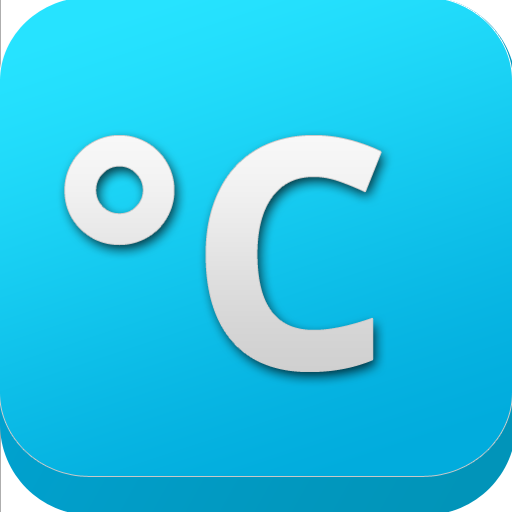
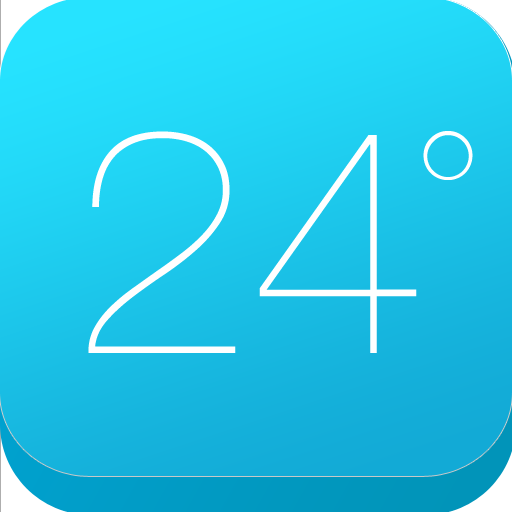
Wasser 1.6.5
Added Twitter Button, made directory option available everywhere for
more flexibility, new app icon matches overall design, valid HTML 5

Changed region(s): [[0.125, 0.25, 0.8125, 0.75], [0.8125, 0.25, 0.9375, 0.375], [0.5625, 0.4062, 0.625, 0.5]]

diff --git a/index.php b/index.php
@@ -25,6 +25,8 @@ $end_time und $cur_time sind die Zeitstempel
 <head>
 <title>Wasser</title>
 
+<meta charset="utf-8">
+
 <!-- iOS Dinge -->
 <meta name="apple-mobile-web-app-capable" content="yes" /> 
 <meta name="viewport" content="width = 480px, inital-scale = 1.0, user-scalable=no"> 
@@ -71,7 +73,7 @@ if($end_time < $cur_time) {
                     <h1 class="today"><?php echo $data['temperature']; ?>&deg;</h1>
                     <h2><?php echo $description; ?></h2>
                     <div id="the_past">
-                    	<div id="past_entry">
+                    	<div class="past_entry">
                     		<div class="past_date">
                     		<?php $one_date = date_create($one_day_data['cur_timestamp']);
 	                    		echo date_format($one_date, 'l')
@@ -82,7 +84,7 @@ if($end_time < $cur_time) {
                     		</div>
                     	</div>
                     	<div style="clear:both;"></div>
-                    	<div id="past_entry">
+                    	<div class="past_entry">
                     		<div class="past_date">
                     		<?php $two_date = date_create($two_day_data['cur_timestamp']);
 	                    		echo date_format($two_date, 'l')
@@ -92,7 +94,7 @@ if($end_time < $cur_time) {
                     		</div>
                     	</div>
                     	<div style="clear:both;"></div>
-                    	<div id="past_entry">
+                    	<div class="past_entry">
                     		<div class="past_date">
                     		<?php $three_date = date_create($three_day_data['cur_timestamp']);
 	                    		echo date_format($three_date, 'l')
@@ -105,9 +107,14 @@ if($end_time < $cur_time) {
                     	
  
                     </div>
-                    <?php echo '<p class="year_ago">Vor einem Jahr um '.$year_ago_data['site_time'].' hatte das Wasser '.$year_ago_data['temperature'].' Grad.</p>'; ?>
+                    <?php echo '<p class="year_ago">Vor einem Jahr hatte das Wasser '.$year_ago_data['temperature'].' Grad.</p>'; ?>
                     <!-- Das exakte  Datum war: <?php echo $year_ago_data['cur_timestamp']; ?> -->
                  <!--   <p class="version"><?php echo $versioning; ?></p> -->
+                 <!-- Twitter Integration -->
+                 <p>
+	                 <a href="https://twitter.com/wassertemp" class="twitter-follow-button" data-show-count="false" data-lang="de" data-show-screen-name="true" data-size="large">Follow @twitterapi</a>
+<script>!function(d,s,id){var js,fjs=d.getElementsByTagName(s)[0];if(!d.getElementById(id)){js=d.createElement(s);js.id=id;js.src="//platform.twitter.com/widgets.js";fjs.parentNode.insertBefore(js,fjs);}}(document,"script","twitter-wjs");</script>
+                 </p>
                 </div>
                 
 </div>

diff --git a/core.php b/core.php
@@ -5,9 +5,11 @@ Build:
 The heart and soul of this app.
 */
 $version = '1.4';
-$build = 'xxxxxx';
+$build = 'afc013';
 
 $versioning = 'Version: '.$version.' ('.$build.')'; 
+
+$directory = 'http://wasser.aaronbauer.org/';
 /*
 Core which fetches the temperature and the time from the website every hour and writes it into a database.
 */
@@ -95,7 +97,7 @@ if($temperatur and $site_date and $timestamp != '') {
 //Debug Modus beendet das Script hier. Es werden keine Daten geschrieben.
 if($_GET['debug'] != '') {
 	echo 'Debug Off <br />';
-	echo '<a href="http://wasser.aaronbauer.org/core.php?debug=yes">Switch Debug On</a><br /><br />';	
+	echo '<a href="'.$directory.'core.php?debug=yes">Switch Debug On</a><br /><br />';	
 	
 } else {
 	echo '<br />Debug Mode';
@@ -147,8 +149,8 @@ if ($temperatur == $data['temperature'] and $timestamp == $data['site_time'] and
 	$tmp_value = $inside->addChild("item"); 
 	$tmp_value->addChild("title", $temperatur.' Grad'); 
 	$tmp_value->addChild("description", $temperatur.' Grad. '.$description);
-	$tmp_value->addChild("guid", 'http://wasser.aaronbauer.org/index.php?set_temp='.$data['id']);
-	$tmp_value->addChild("link", 'http://wasser.aaronbauer.org/index.php?set_temp='.$temperatur);
+	$tmp_value->addChild("guid", $directory.'index.php?set_temp='.$data['id']);
+	$tmp_value->addChild("link", $directory.'index.php?set_temp='.$temperatur);
 	$tmp_value->addChild("pubDate", $date);
 	//This next line will overwrite the original XML file with new data added 
 	$sxe->asXML("database.xml"); 

diff --git a/frontend.php b/frontend.php
@@ -11,10 +11,11 @@ Setzt voraus, dass database.xml mit Schreibrechten versehen sind
 #################
 
 // Version und Build-Nummer
-$version = '1.6.4';
+$version = '1.6.5';
 $build = 'xxxxxx';
 
 // 1.6.4: Added manual Temperatur setting set_temp for debug reasons. Added default option in texts.php. Seperated off season display in new file. Core updated to 1.4 to support valid and standard encoded XML for support of external Services like IFTTT. Core is able to tweet current temperature by itself and doesn't rely on external services any more. 
+// 1.6.5: Added Twitter Button, made directory option available everywhere for more flexibility, new app icon matches overall design 
 
 
 // Hier Datum des Saison-Beginns/Ende eintragen (jeweils die Paramenter im Frontend ändern!)

diff --git a/appearance.php b/appearance.php
@@ -146,7 +146,7 @@ div#the_past {
 	
 }
 
-div#past_entry {
+div.past_entry {
 	border-bottom: 0px solid #333;
     margin-bottom: 15px;
 	overflow: auto;
